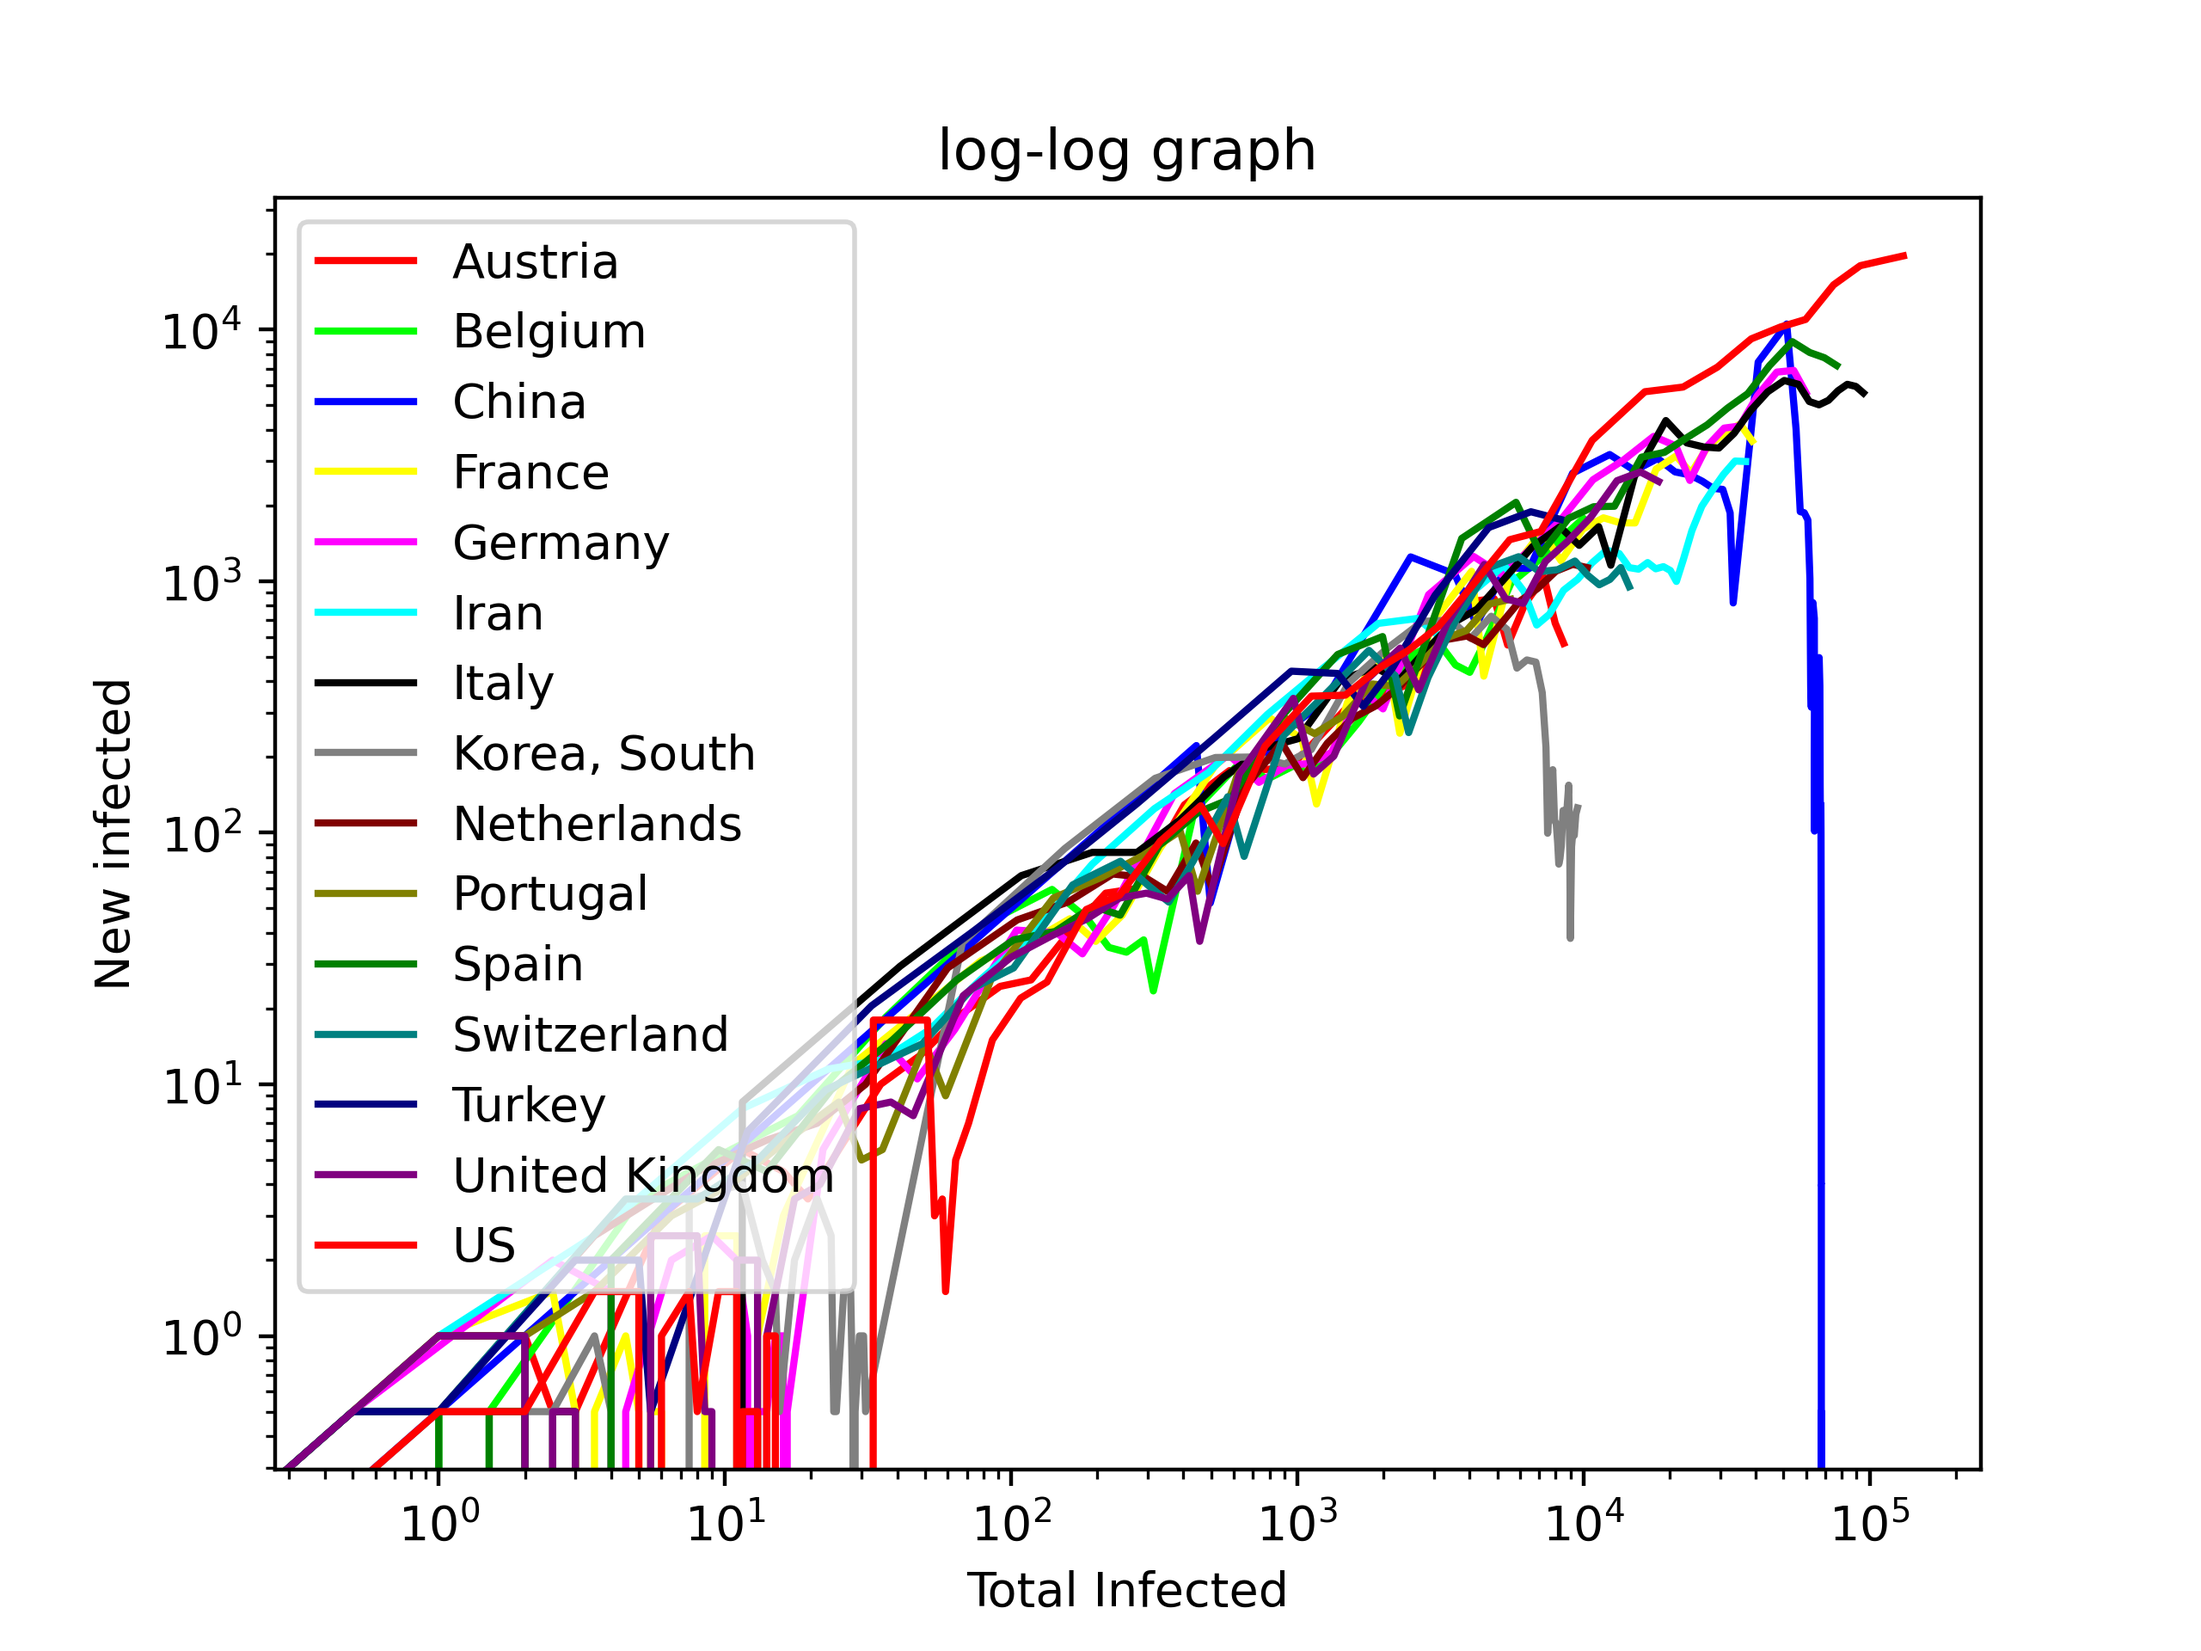
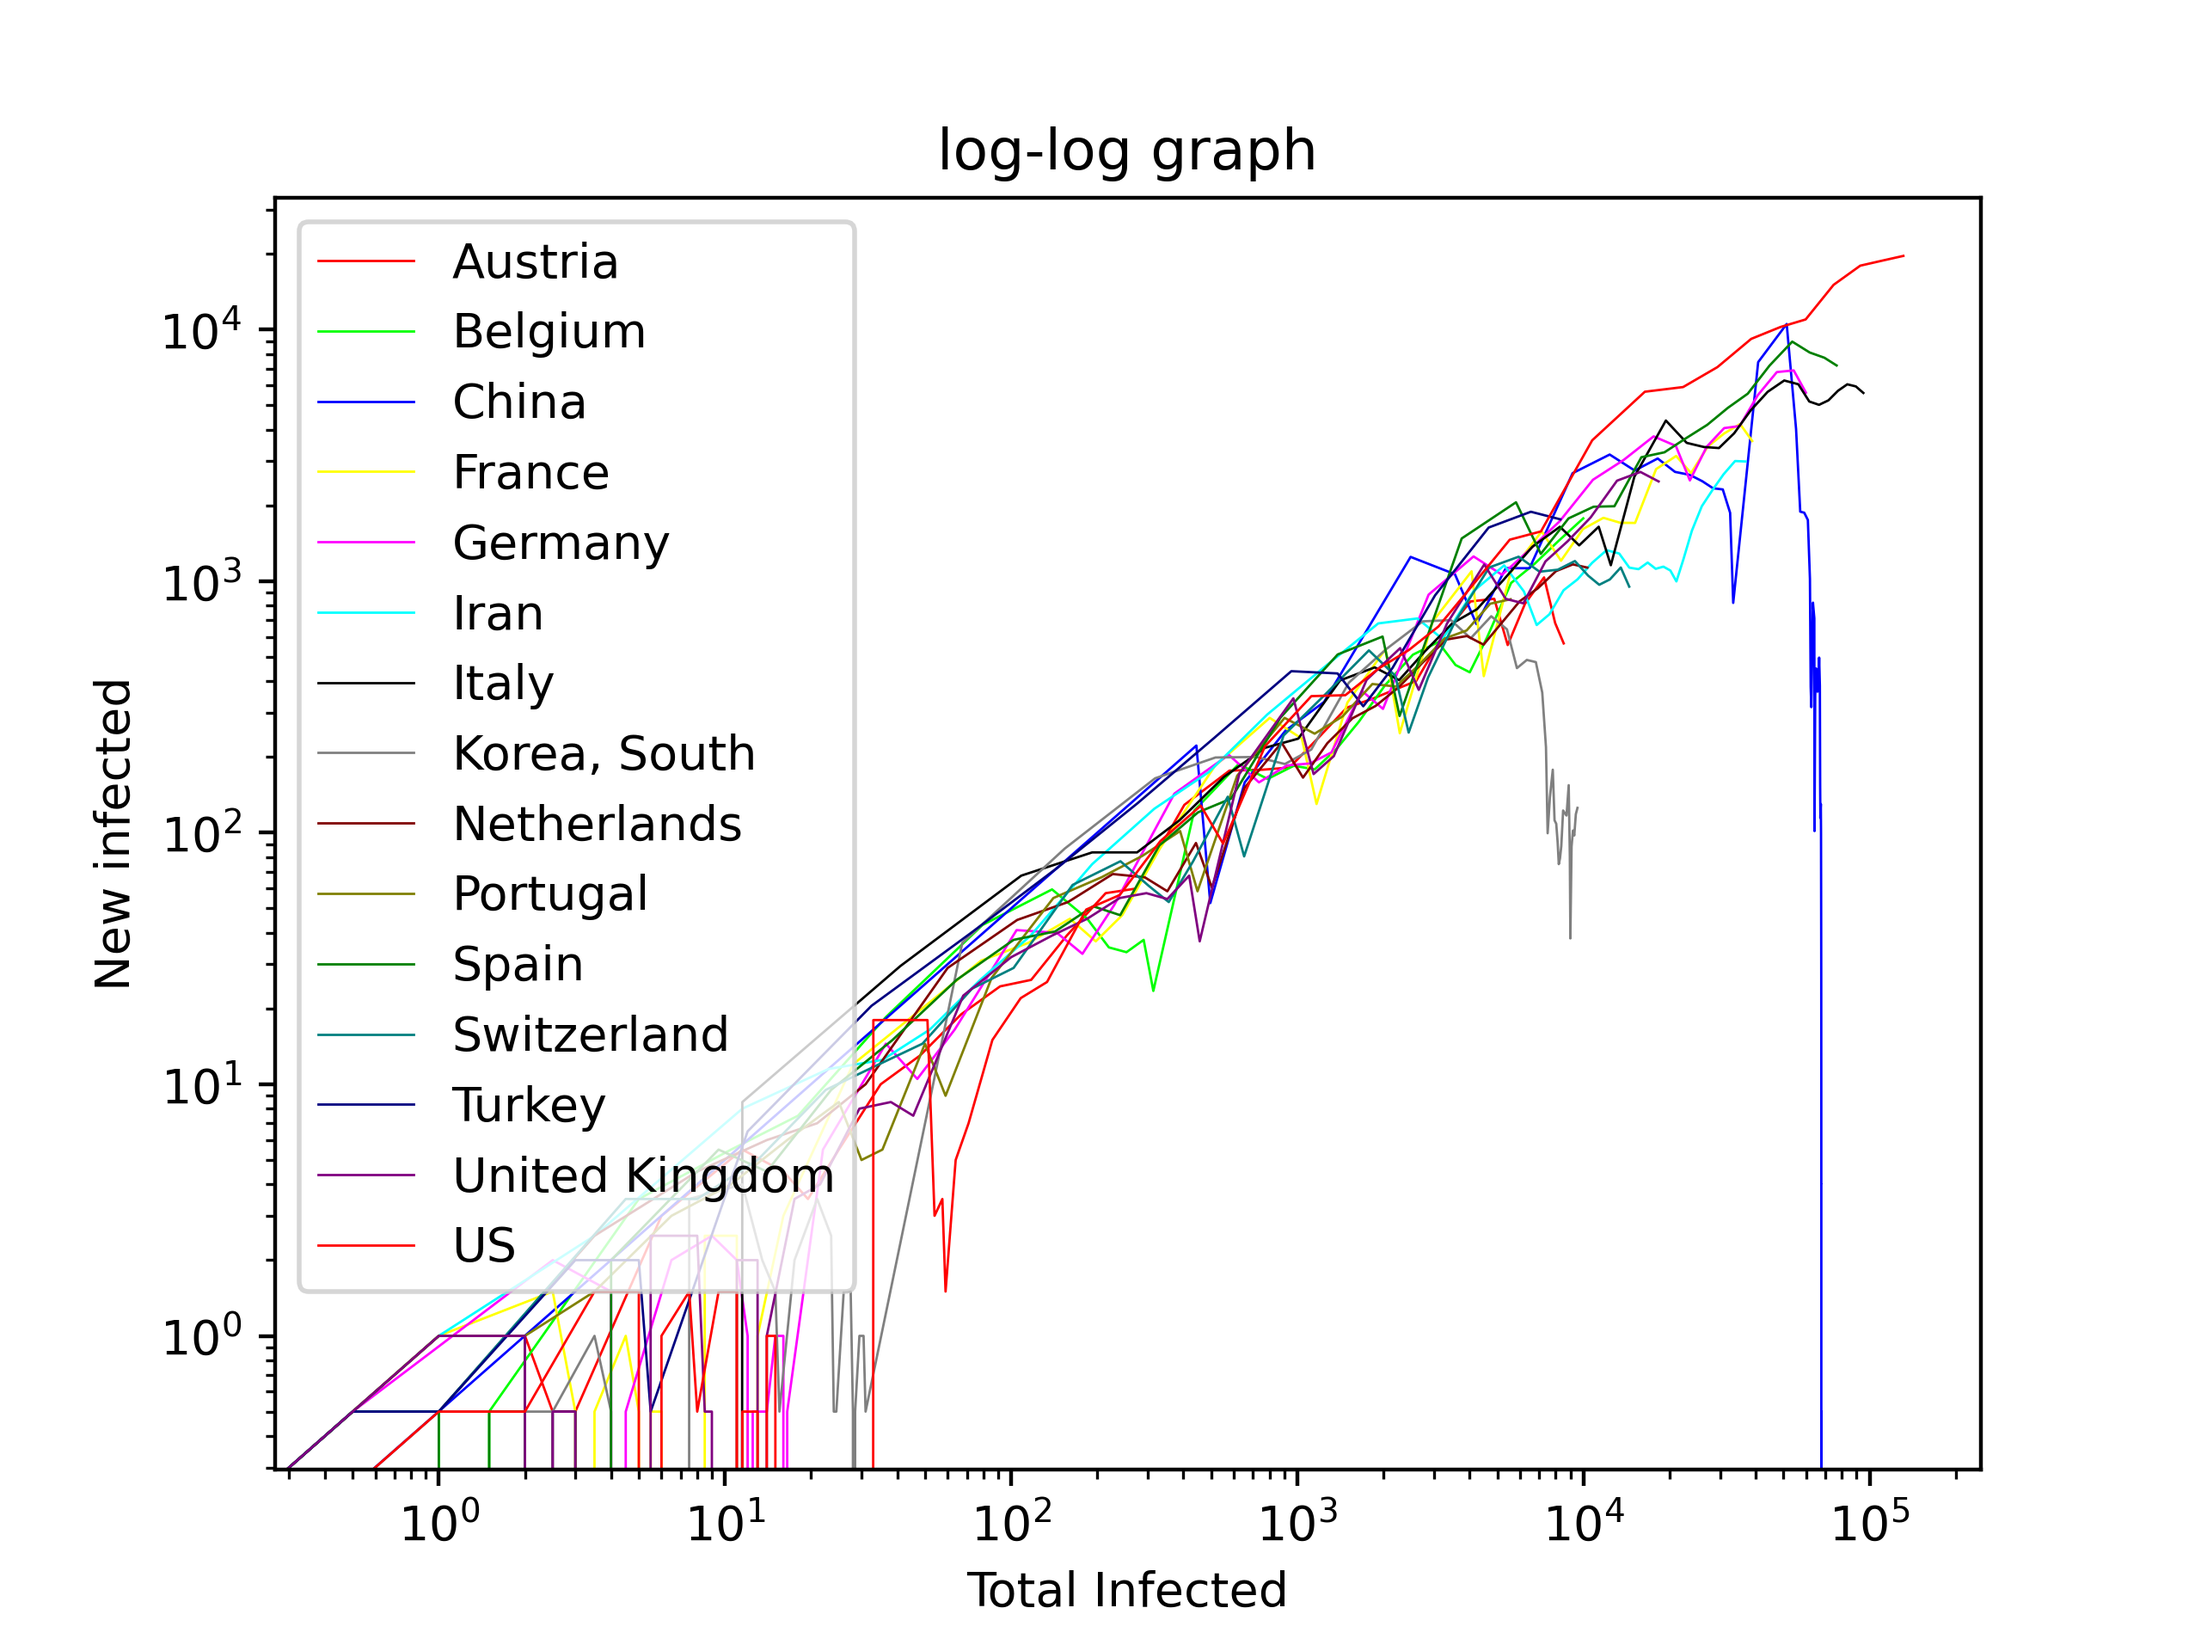
Changed Line width

diff --git a/log-log graph.py b/log-log graph.py
@@ -52,7 +52,7 @@ plt.rc('axes', prop_cycle=(cycler('color', ['#ff0000', '#00ff00', '#0000ff', '#f
     '#008080',	'#000080',	'#800080'])))
 for i in range(0, len(countries_cumul)):
     if countries_cumul_avg[i][len(countries_cumul_avg[i])-1] > 5000:
-        plt.plot(countries_cumul_avg[i], countries_new_avg[i], label = country[i])
+        plt.plot(countries_cumul_avg[i], countries_new_avg[i], label = country[i], linewidth=0.5)
 
 # naming the x axis 
 plt.xlabel('Total Infected') 
@@ -67,4 +67,4 @@ plt.yscale("log")
 plt.xscale("log")
 plt.legend()
 plt.savefig(r"C:\Users\Sanjeet\Documents\py_projects\COVID-19 Visual\Figure_1.png", dpi = 400)
-#plt.show()
+plt.show()
